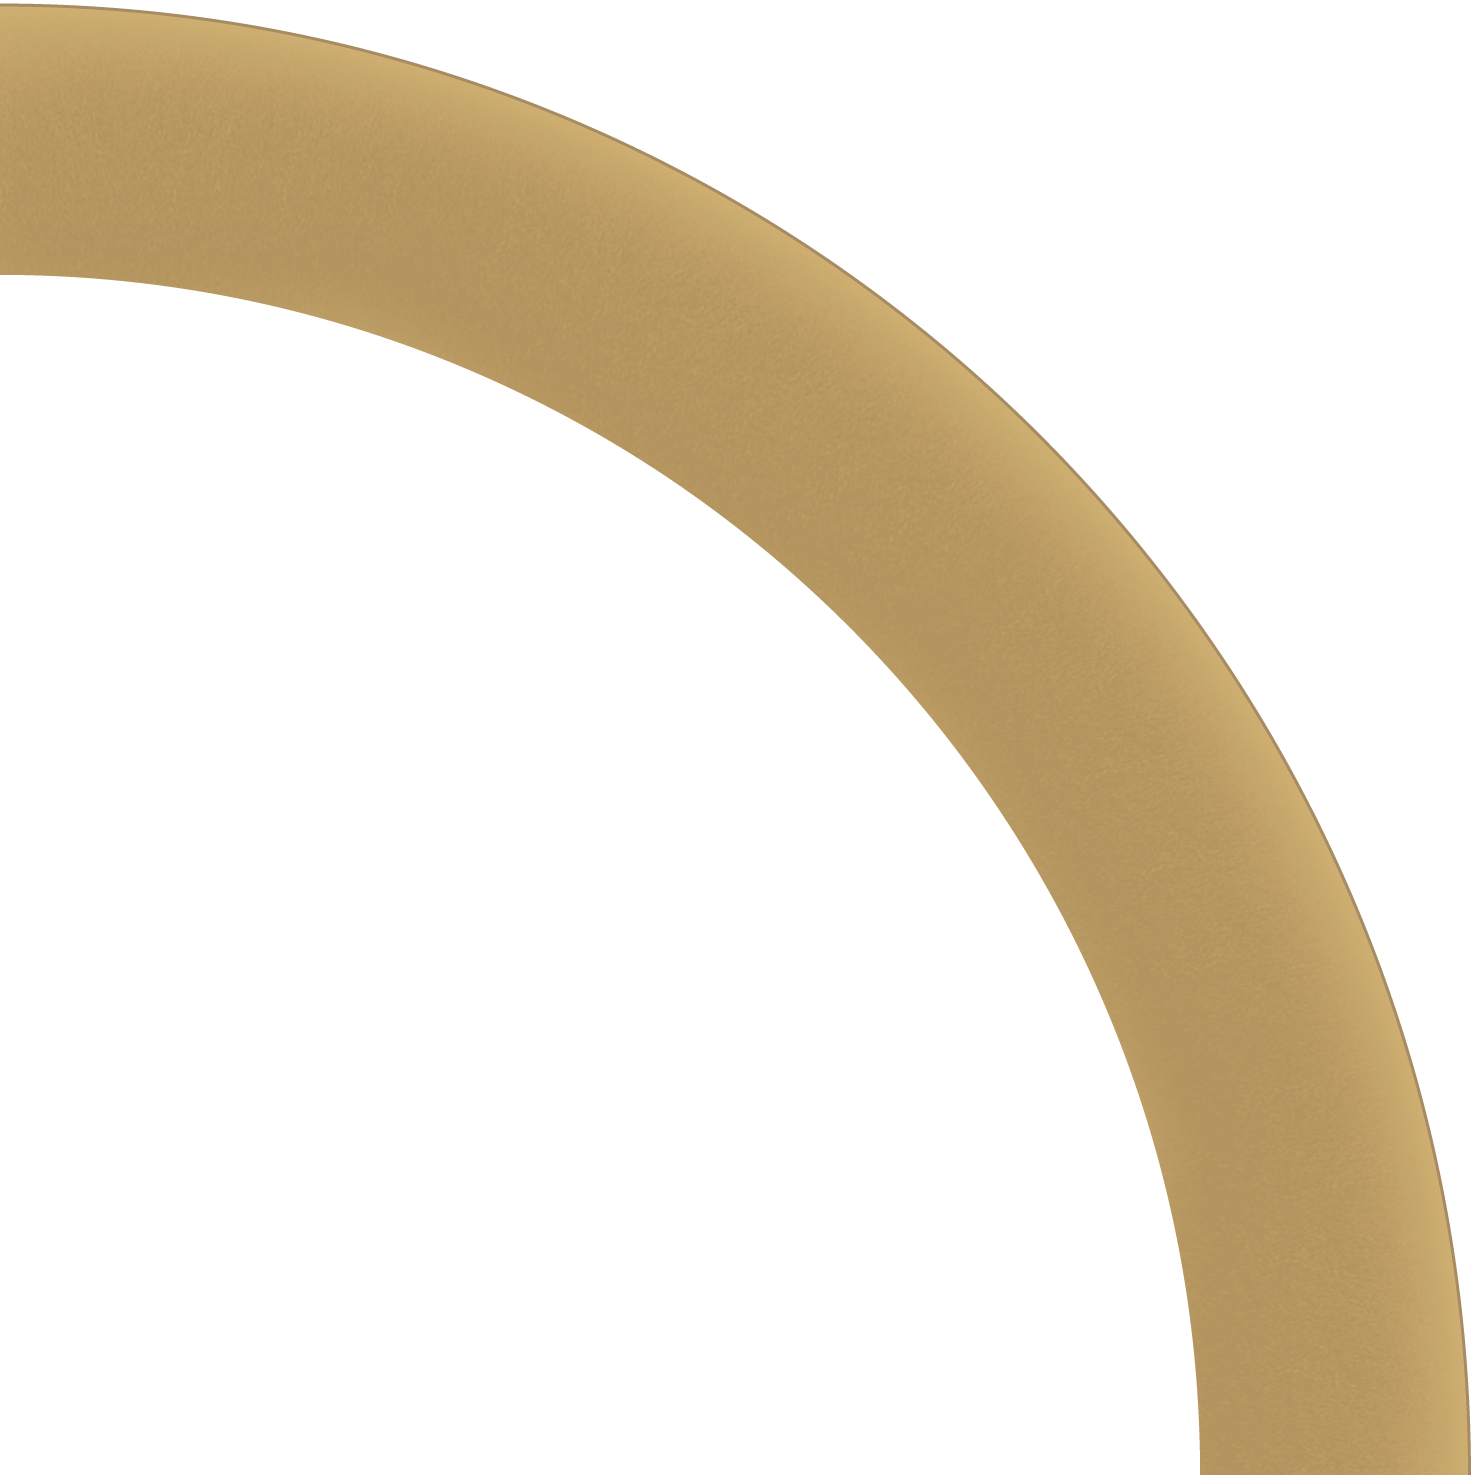
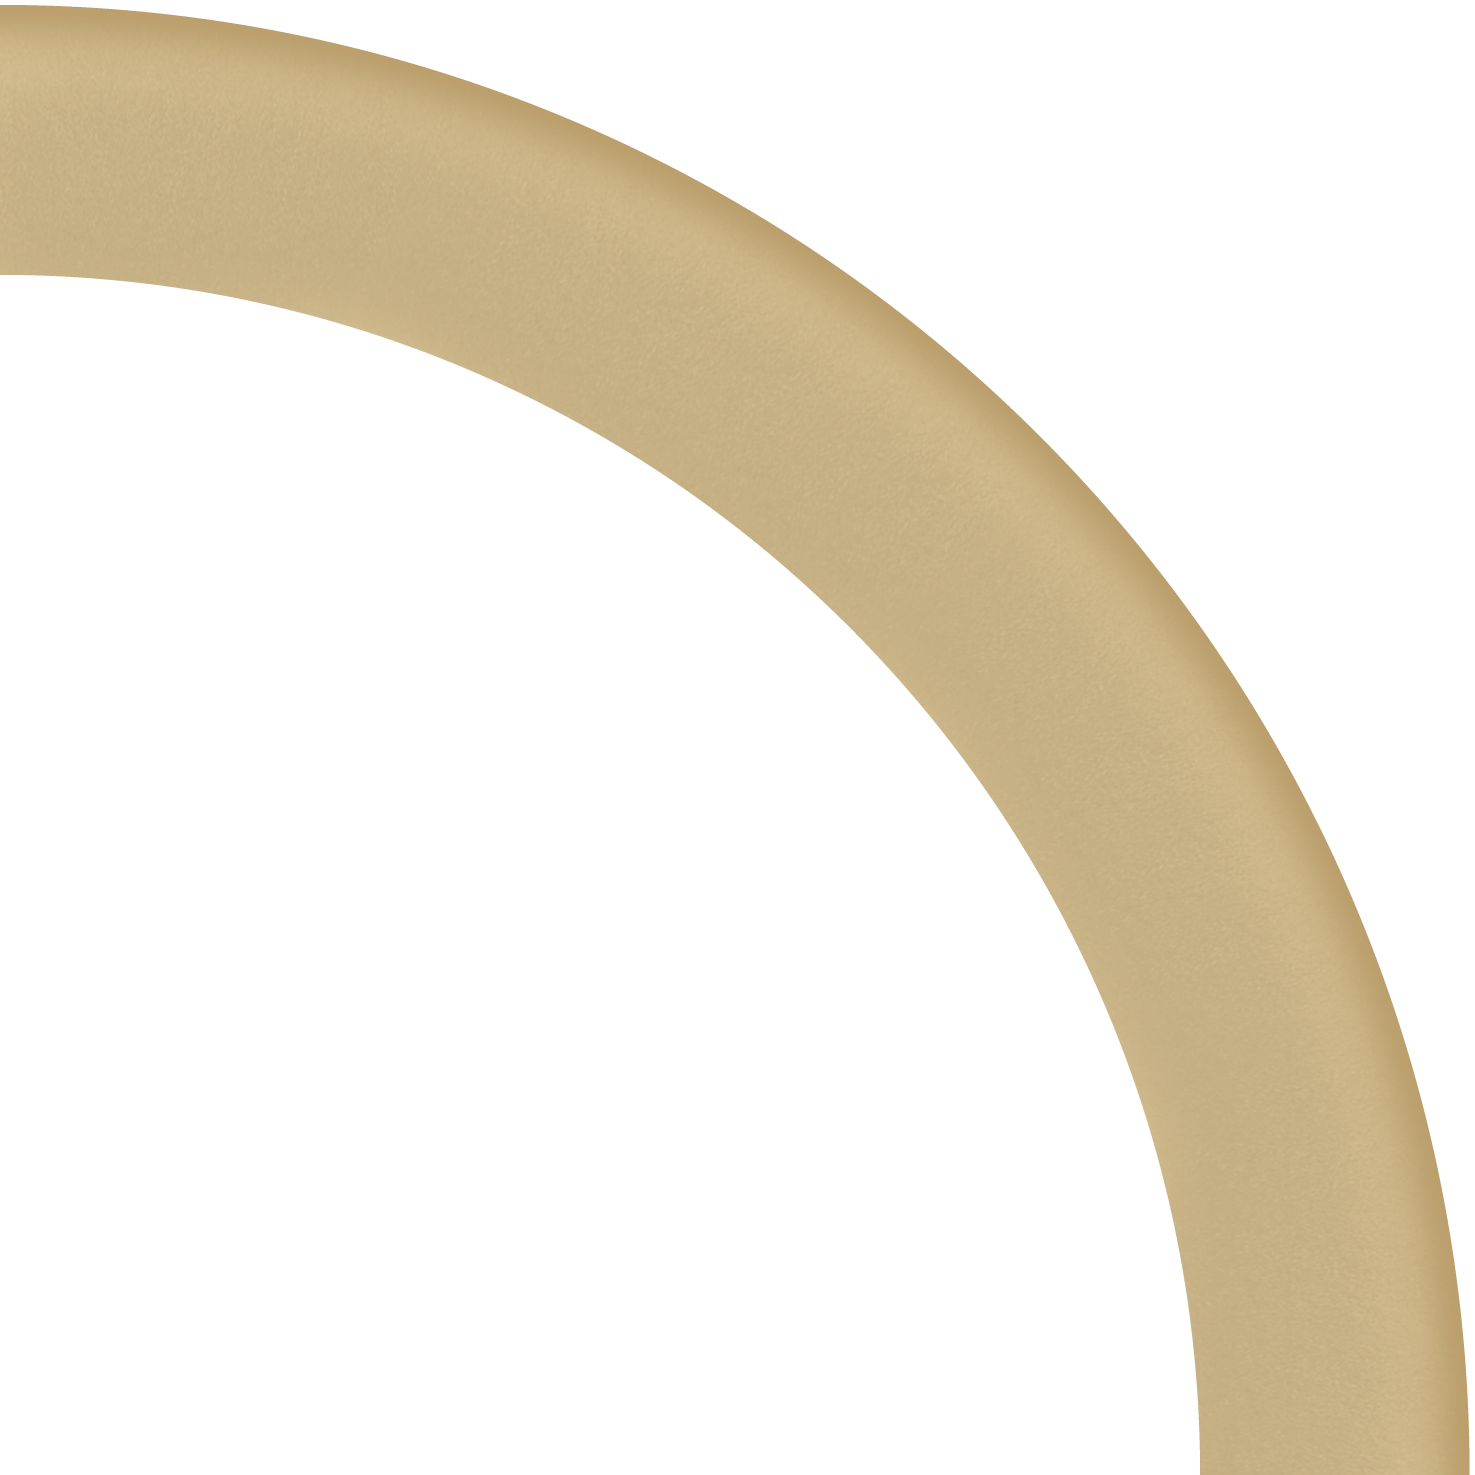
new desert theme

Changed region(s): [[0.0, 0.0, 0.998, 1.0]]

diff --git a/client/obacht/assets/themes/themes.js b/client/obacht/assets/themes/themes.js
@@ -2,7 +2,7 @@
 
 goog.provide('obacht.themes');
 
-var theme = 'candy'; // meadow, desert, water, candy
+var theme = 'desert'; // meadow, desert, water, candy
 
 obacht.themes = {
 
